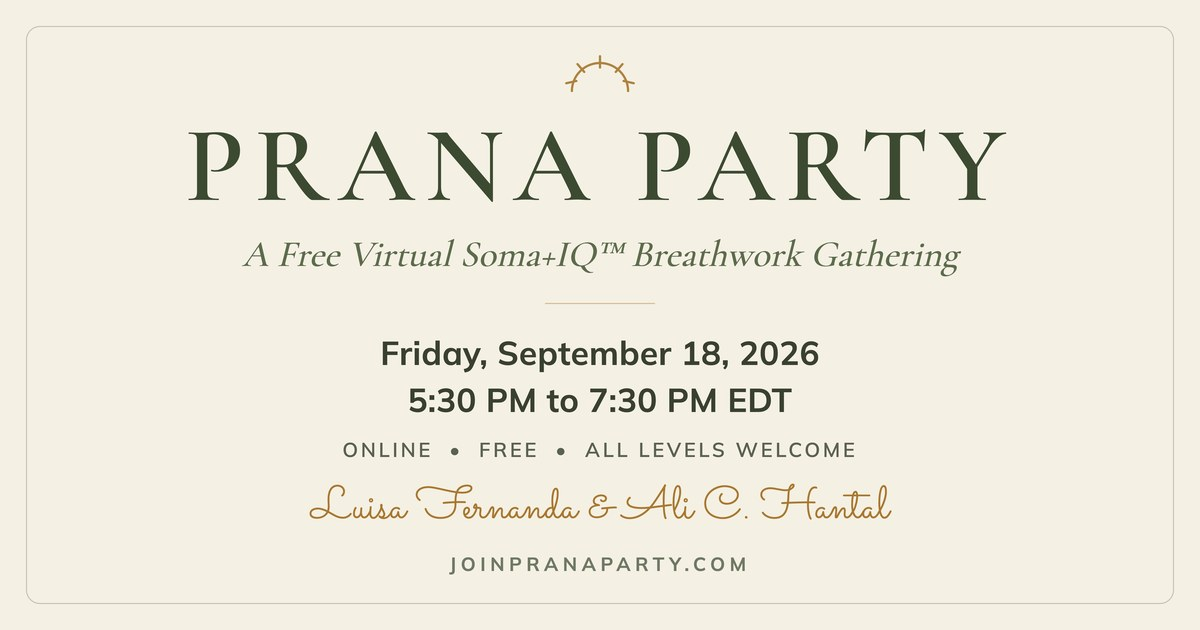
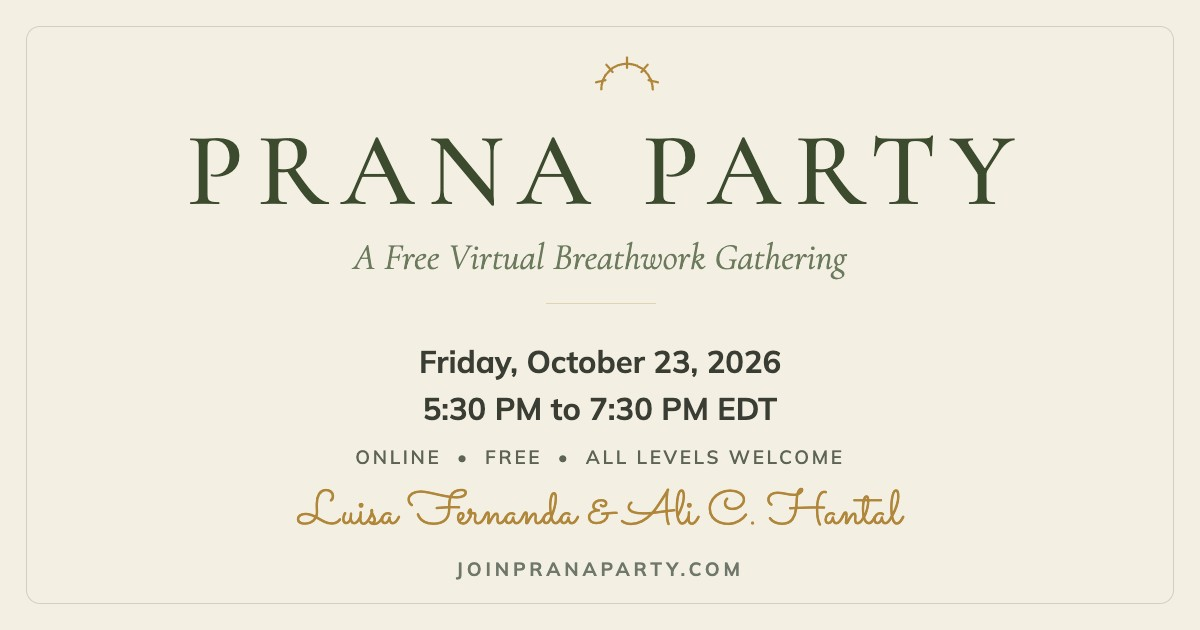
October session: breathwork wording only, 45-minute breathing part
October-only edits (revert to tag pre-october-2026 for November):
remove every Soma+IQ mention including the Soma+IQ box, the calendar
text and the social-share image (now Friday, October 23), and shorten
the breathing part to 45 minutes. Event slot stays 5:30 to 7:30 PM EDT.

diff --git a/index.html b/index.html
@@ -3,22 +3,22 @@
 <head>
 <meta charset="UTF-8">
 <meta name="viewport" content="width=device-width, initial-scale=1">
-<title>Prana Party | Free Virtual Soma+IQ™ Breathwork Gathering</title>
-<meta name="description" content="Join Prana Party, a free virtual Soma+IQ™ breathwork gathering with Luisa Fernanda and Ali C. Hantal on Friday, October 23, 2026 from 5:30 PM to 7:30 PM EDT.">
+<title>Prana Party | Free Virtual Breathwork Gathering</title>
+<meta name="description" content="Join Prana Party, a free virtual breathwork gathering with Luisa Fernanda and Ali C. Hantal on Friday, October 23, 2026 from 5:30 PM to 7:30 PM EDT.">
 <meta name="theme-color" content="#3d4a32">
 
 <!-- Open Graph / social -->
 <meta property="og:type" content="website">
 <meta property="og:site_name" content="Prana Party">
-<meta property="og:title" content="Prana Party | Free Virtual Soma+IQ™ Breathwork Gathering">
-<meta property="og:description" content="A free virtual Soma+IQ™ breathwork gathering with Luisa Fernanda and Ali C. Hantal. Friday, October 23, 2026, 5:30 PM to 7:30 PM EDT. All levels welcome.">
+<meta property="og:title" content="Prana Party | Free Virtual Breathwork Gathering">
+<meta property="og:description" content="A free virtual breathwork gathering with Luisa Fernanda and Ali C. Hantal. Friday, October 23, 2026, 5:30 PM to 7:30 PM EDT. All levels welcome.">
 <meta property="og:url" content="https://joinpranaparty.com/">
 <meta property="og:image" content="https://joinpranaparty.com/images/prana-party-social.jpg">
 <meta property="og:image:width" content="1200">
 <meta property="og:image:height" content="630">
 <meta name="twitter:card" content="summary_large_image">
-<meta name="twitter:title" content="Prana Party | Free Virtual Soma+IQ™ Breathwork Gathering">
-<meta name="twitter:description" content="A free virtual Soma+IQ™ breathwork gathering with Luisa Fernanda and Ali C. Hantal. Friday, October 23, 2026, 5:30 PM to 7:30 PM EDT.">
+<meta name="twitter:title" content="Prana Party | Free Virtual Breathwork Gathering">
+<meta name="twitter:description" content="A free virtual breathwork gathering with Luisa Fernanda and Ali C. Hantal. Friday, October 23, 2026, 5:30 PM to 7:30 PM EDT.">
 <meta name="twitter:image" content="https://joinpranaparty.com/images/prana-party-social.jpg">
 <link rel="canonical" href="https://joinpranaparty.com/">
 
@@ -46,8 +46,8 @@
 {
   "@context": "https://schema.org",
   "@type": "Event",
-  "name": "Prana Party: Free Virtual Soma+IQ™ Breathwork Gathering",
-  "description": "A free virtual Soma+IQ™ breathwork gathering hosted by Luisa Fernanda and Ali C. Hantal.",
+  "name": "Prana Party: Free Virtual Breathwork Gathering",
+  "description": "A free virtual breathwork gathering hosted by Luisa Fernanda and Ali C. Hantal.",
   "startDate": "2026-10-23T17:30:00-04:00",
   "endDate": "2026-10-23T19:30:00-04:00",
   "eventAttendanceMode": "https://schema.org/OnlineEventAttendanceMode",
@@ -84,7 +84,7 @@
   <div class="wrap">
     <div class="hero__inner">
       <h1 class="hero__logo">Prana Party</h1>
-      <p class="hero__tagline">A Free Virtual Soma+IQ&trade; Breathwork Gathering</p>
+      <p class="hero__tagline">A Free Virtual Breathwork Gathering</p>
       <ul class="hero__meta">
         <li>Friday, October 23, 2026</li>
         <li>5:30 PM to 7:30 PM EDT</li>
@@ -105,7 +105,7 @@
 
 <main>
 
-  <!-- ============ WHAT IS IT? + SOMA+IQ ============ -->
+  <!-- ============ WHAT IS IT? ============ -->
   <section class="section section--paper">
     <div class="wrap">
       <svg class="sun" viewBox="0 0 66 34" aria-hidden="true">
@@ -121,10 +121,6 @@
         <h2>A free, virtual space to breathe, share, and celebrate the power of breath together.</h2>
         <p>No experience is needed.</p>
         <p><span class="accent">Just you and your breath.</span></p>
-      </div>
-      <div class="soma">
-        <p class="eyebrow">Soma+IQ&trade;</p>
-        <p class="soma__text">Soma+IQ&trade; is a somatic breathwork practice that uses conscious breathing to help us reconnect with the body, release what we are holding, and return to a more present state.</p>
       </div>
     </div>
   </section>
@@ -170,7 +166,7 @@
         </li>
         <li class="stage">
           <h3>Breathe</h3>
-          <p>We will guide you through the Soma+IQ&trade; breathwork experience.</p>
+          <p>We will guide you through the breathwork experience.</p>
         </li>
         <li class="stage">
           <h3>Connect</h3>

diff --git a/thankyou/index.html b/thankyou/index.html
@@ -77,7 +77,7 @@
             </li>
             <li class="card">
               <h3>A Quiet, Private Space</h3>
-              <p>Somewhere you can breathe comfortably without being interrupted for the full 90 minutes.</p>
+              <p>Somewhere you can breathe comfortably without being interrupted for the full 75 minutes.</p>
             </li>
             <li class="card card--wide">
               <h3>Zoom &amp; Your Camera</h3>
@@ -103,8 +103,8 @@
             </li>
             <li class="stage">
               <h3>Breathe</h3>
-              <p class="stage__sub">Approximately 60 minutes</p>
-              <p>You'll lie comfortably on your back while being guided through Soma+IQ&trade; The Journey, using conscious connected breathing together with music, movement, sound, and emotional expression. The breath gradually builds activation, and rather than trying to calm or control what arises, we create space to allow it. Nothing needs to be forced. Your experience is your own.</p>
+              <p class="stage__sub">Approximately 45 minutes</p>
+              <p>You'll lie comfortably on your back while being guided through the breathwork session, using conscious connected breathing together with music, movement, sound, and emotional expression. The breath gradually builds activation, and rather than trying to calm or control what arises, we create space to allow it. Nothing needs to be forced. Your experience is your own.</p>
             </li>
             <li class="stage">
               <h3>Share &amp; Integrate</h3>
@@ -173,7 +173,7 @@
      EVENT.endMs must match EVENT_END_MS in index.html and prepare/index.html. */
[1 lines of base64/hex data omitted]
   var EVENT = {
-    title: 'Prana Party: Free Virtual Soma+IQ™ Breathwork Gathering',
+    title: 'Prana Party: Free Virtual Breathwork Gathering',
     startUTC: '20261023T213000Z',
     endUTC: '20261023T233000Z',
     startLocal: '2026-10-23T17:30:00-04:00',
@@ -185,7 +185,7 @@
 
   function calDescription(){
     return 'Prana Party\n\n'
-      + 'A free virtual Soma+IQ™ breathwork gathering hosted by Luisa Fernanda and Ali C. Hantal.\n\n'
+      + 'A free virtual breathwork gathering hosted by Luisa Fernanda and Ali C. Hantal.\n\n'
       + 'Join on Zoom:\n' + ZOOM_URL + '\n\n'
       + 'Prepare for Prana Party:\nhttps://joinpranaparty.com/prepare/\n\n'
       + 'Breathe. Connect. Celebrate.';

diff --git a/prepare/index.html b/prepare/index.html
@@ -54,7 +54,7 @@
         </li>
         <li class="card">
           <h3>A Quiet, Private Space</h3>
-          <p>Somewhere you can breathe comfortably without being interrupted for the full 90 minutes.</p>
+          <p>Somewhere you can breathe comfortably without being interrupted for the full 75 minutes.</p>
         </li>
         <li class="card card--wide">
           <h3>Zoom &amp; Your Camera</h3>
@@ -90,8 +90,8 @@
         </li>
         <li class="stage">
           <h3>Breathe</h3>
-          <p class="stage__sub">Approximately 60 minutes</p>
-          <p>You'll lie comfortably on your back while being guided through Soma+IQ&trade; The Journey, using conscious connected breathing together with music, movement, sound, and emotional expression. The breath gradually builds activation, and rather than trying to calm or control what arises, we create space to allow it. Nothing needs to be forced. Your experience is your own.</p>
+          <p class="stage__sub">Approximately 45 minutes</p>
+          <p>You'll lie comfortably on your back while being guided through the breathwork session, using conscious connected breathing together with music, movement, sound, and emotional expression. The breath gradually builds activation, and rather than trying to calm or control what arises, we create space to allow it. Nothing needs to be forced. Your experience is your own.</p>
         </li>
         <li class="stage">
           <h3>Share &amp; Integrate</h3>

diff --git a/specs.md b/specs.md
@@ -418,7 +418,7 @@ Commit attribution: `Co-Authored-By: Claude Sonnet 5 <noreply@anthropic.com>`.
       `/thankyou/` says the Zoom link and preparation guide are in the confirmation
       email. Needs the Pro plan; text should include date, time, Zoom link, and the
       "How to prepare" summary in §10.
-- [ ] **Social-share image** `images/prana-party-social.jpg` still shows September 18.
+- [x] **Social-share image** `images/prana-party-social.jpg` regenerated 2026-09-25 for Friday, October 23 (October-only wording, see below).
 - [ ] **Real-device end-to-end test** of the new `/thankyou/` flow (verified in Chrome
       against a local copy on 2026-09-24; not yet with a real submit).
 - [ ] If no email arrives, confirm the Web3Forms account email is **verified**.
@@ -452,6 +452,7 @@ Commit attribution: `Co-Authored-By: Claude Sonnet 5 <noreply@anthropic.com>`.
 | 2026-09-24 | Spec update: status and open items refreshed for October 24; added the event-update checklist (§16). |
 | 2026-09-24 | Event moved from Saturday, October 24 to **Friday, October 23, 2026**, same time (5:30 to 7:30 PM EDT), in every place listed in §16 (home page meta/OG/Twitter/JSON-LD/hero/band/intro/subject, `/thankyou/` date and calendar constants, `EVENT_END_MS`/`endMs` in all three pages, `prana-party.ics`, README). Zoom link still pending; calendar buttons still off. |
 | 2026-09-25 | October 23 Zoom link added (thank-you page, prepare page, `prana-party.ics`); calendar buttons and the prepare page's Zoom CTA switched on; auto-reply text drafted in §8. |
+| 2026-09-25 | **October-only edits** (Ali does not attend; photo and name stay): no Soma+IQ™ mention anywhere (title, meta, OG/Twitter, JSON-LD, hero, stage text, calendar text, social image; Soma+IQ™ box removed); breathing part 45 minutes (prepare and thank-you; "full 75 minutes"); event slot still 5:30 to 7:30 PM EDT. **Revert for November:** restore page files from git tag `pre-october-2026`; details in the local file `Prana_November_Revert.md`. |
 
 ## 16. Event-update checklist
 
